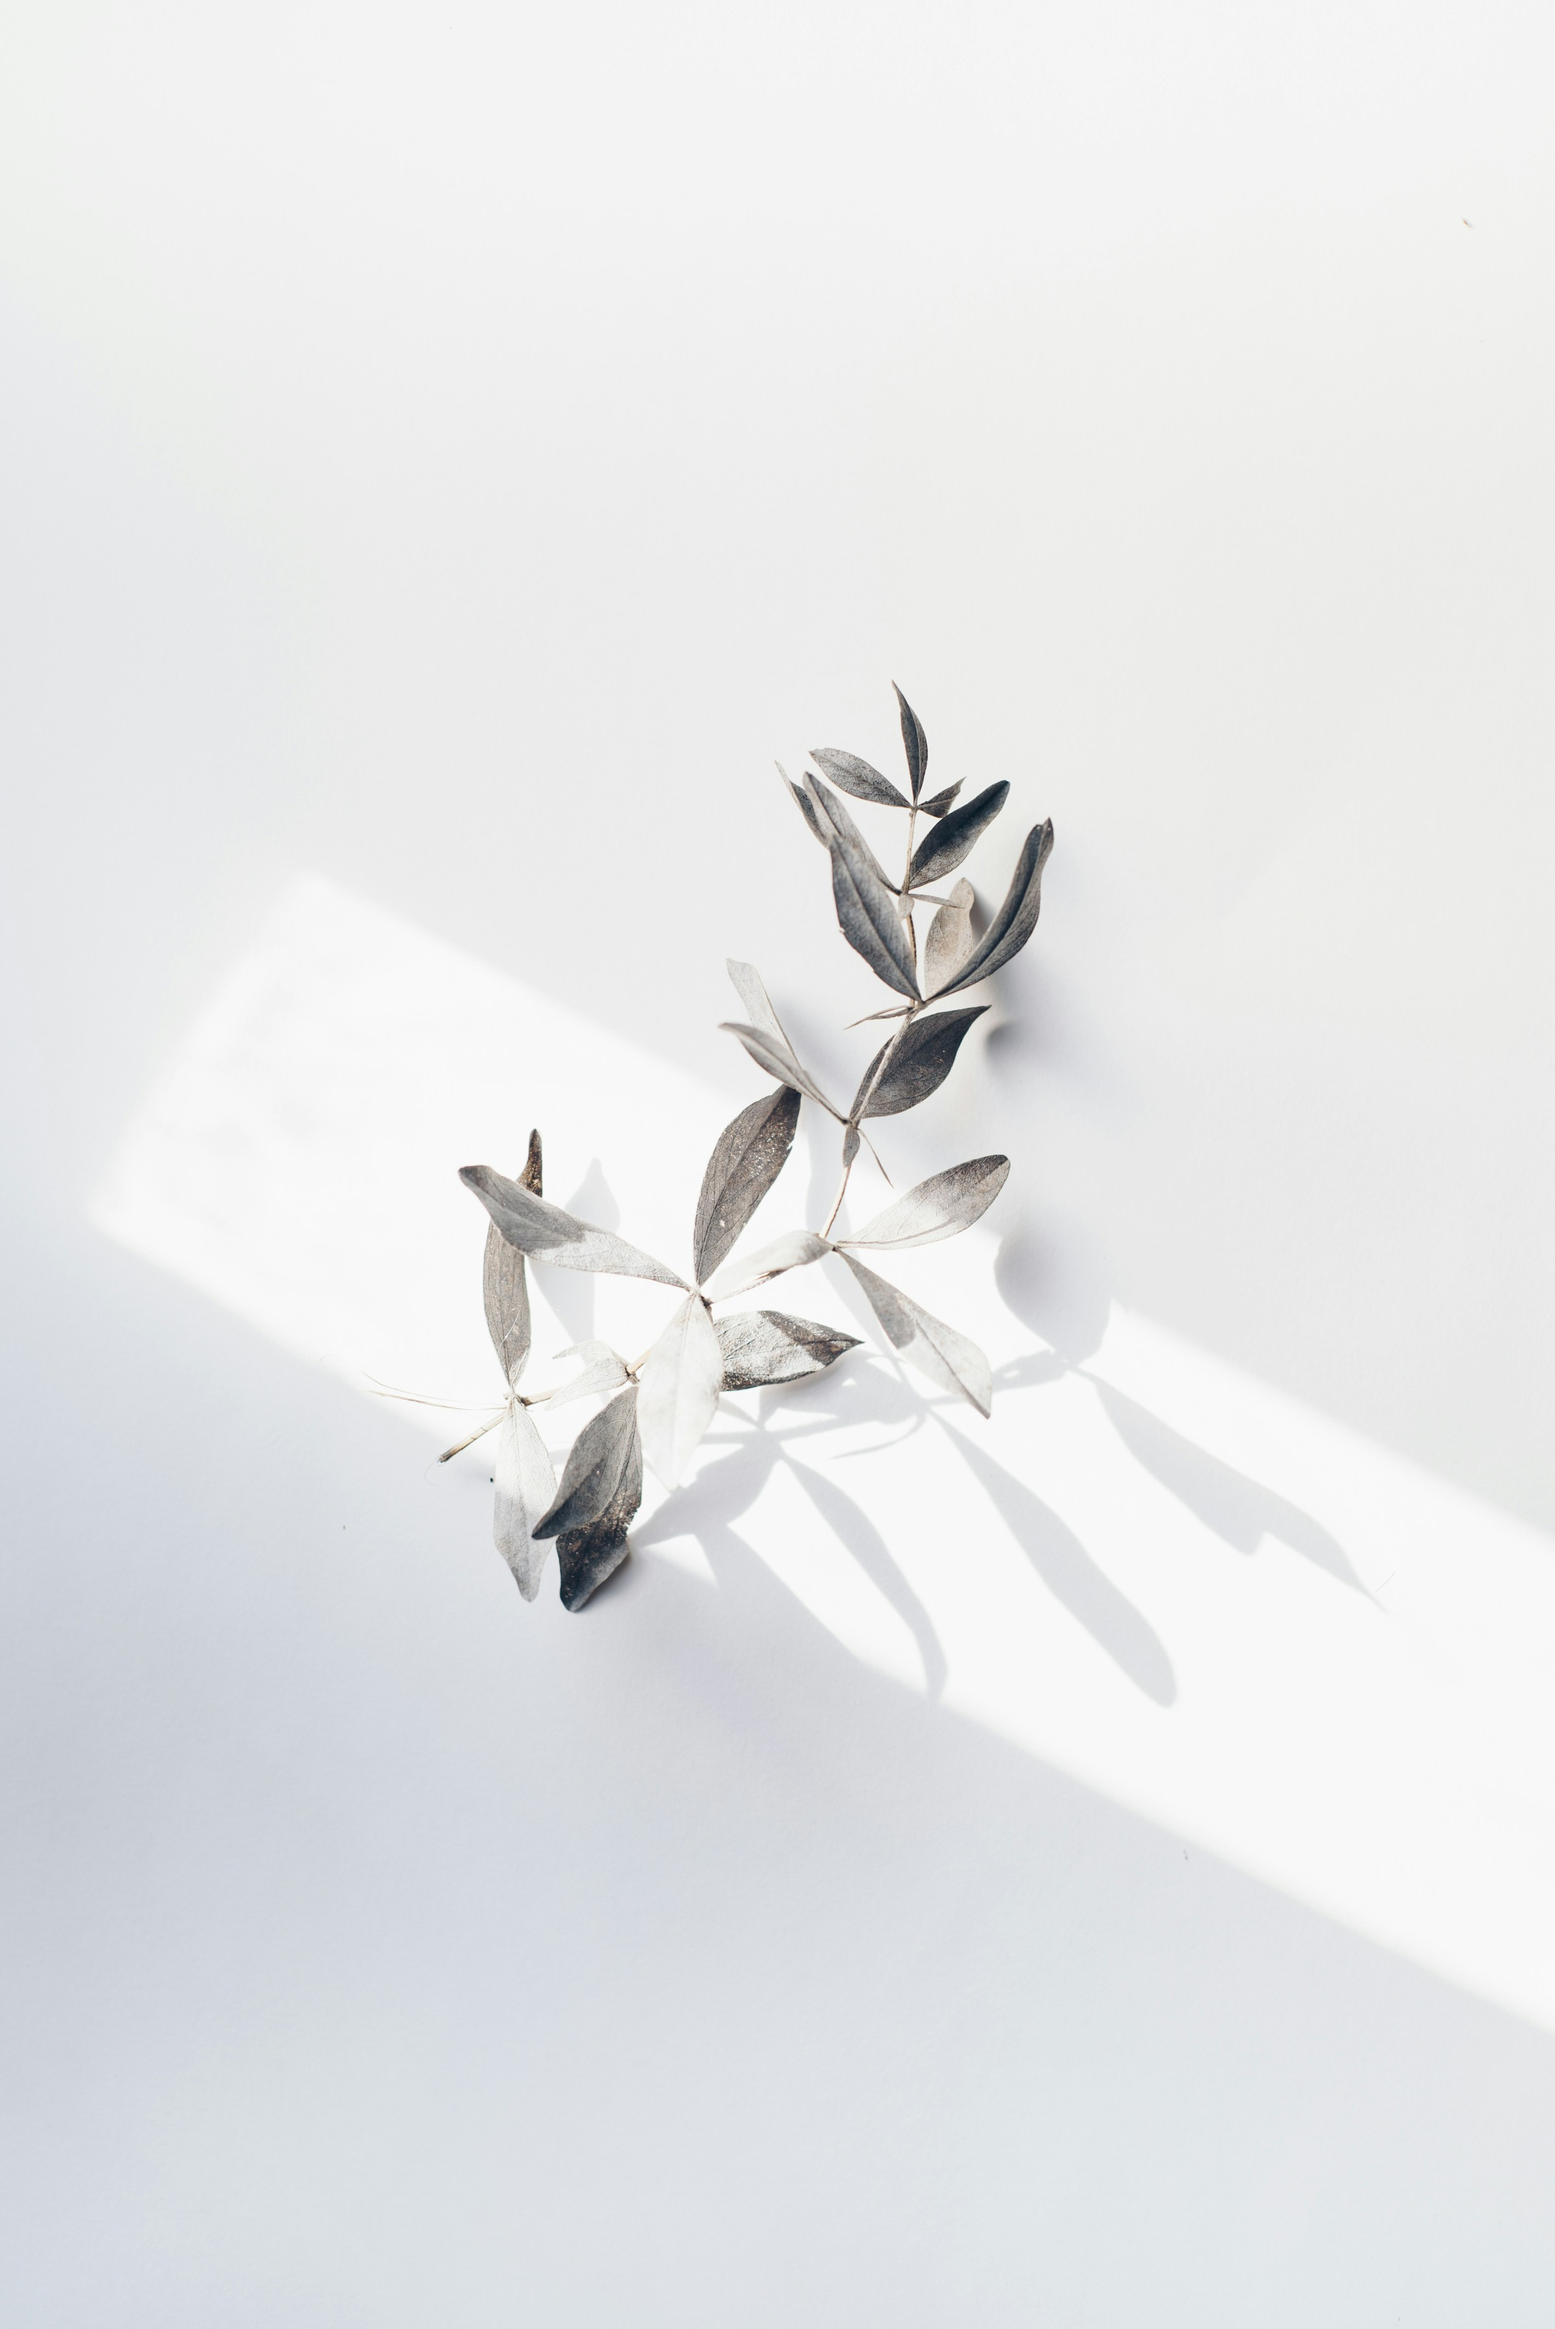
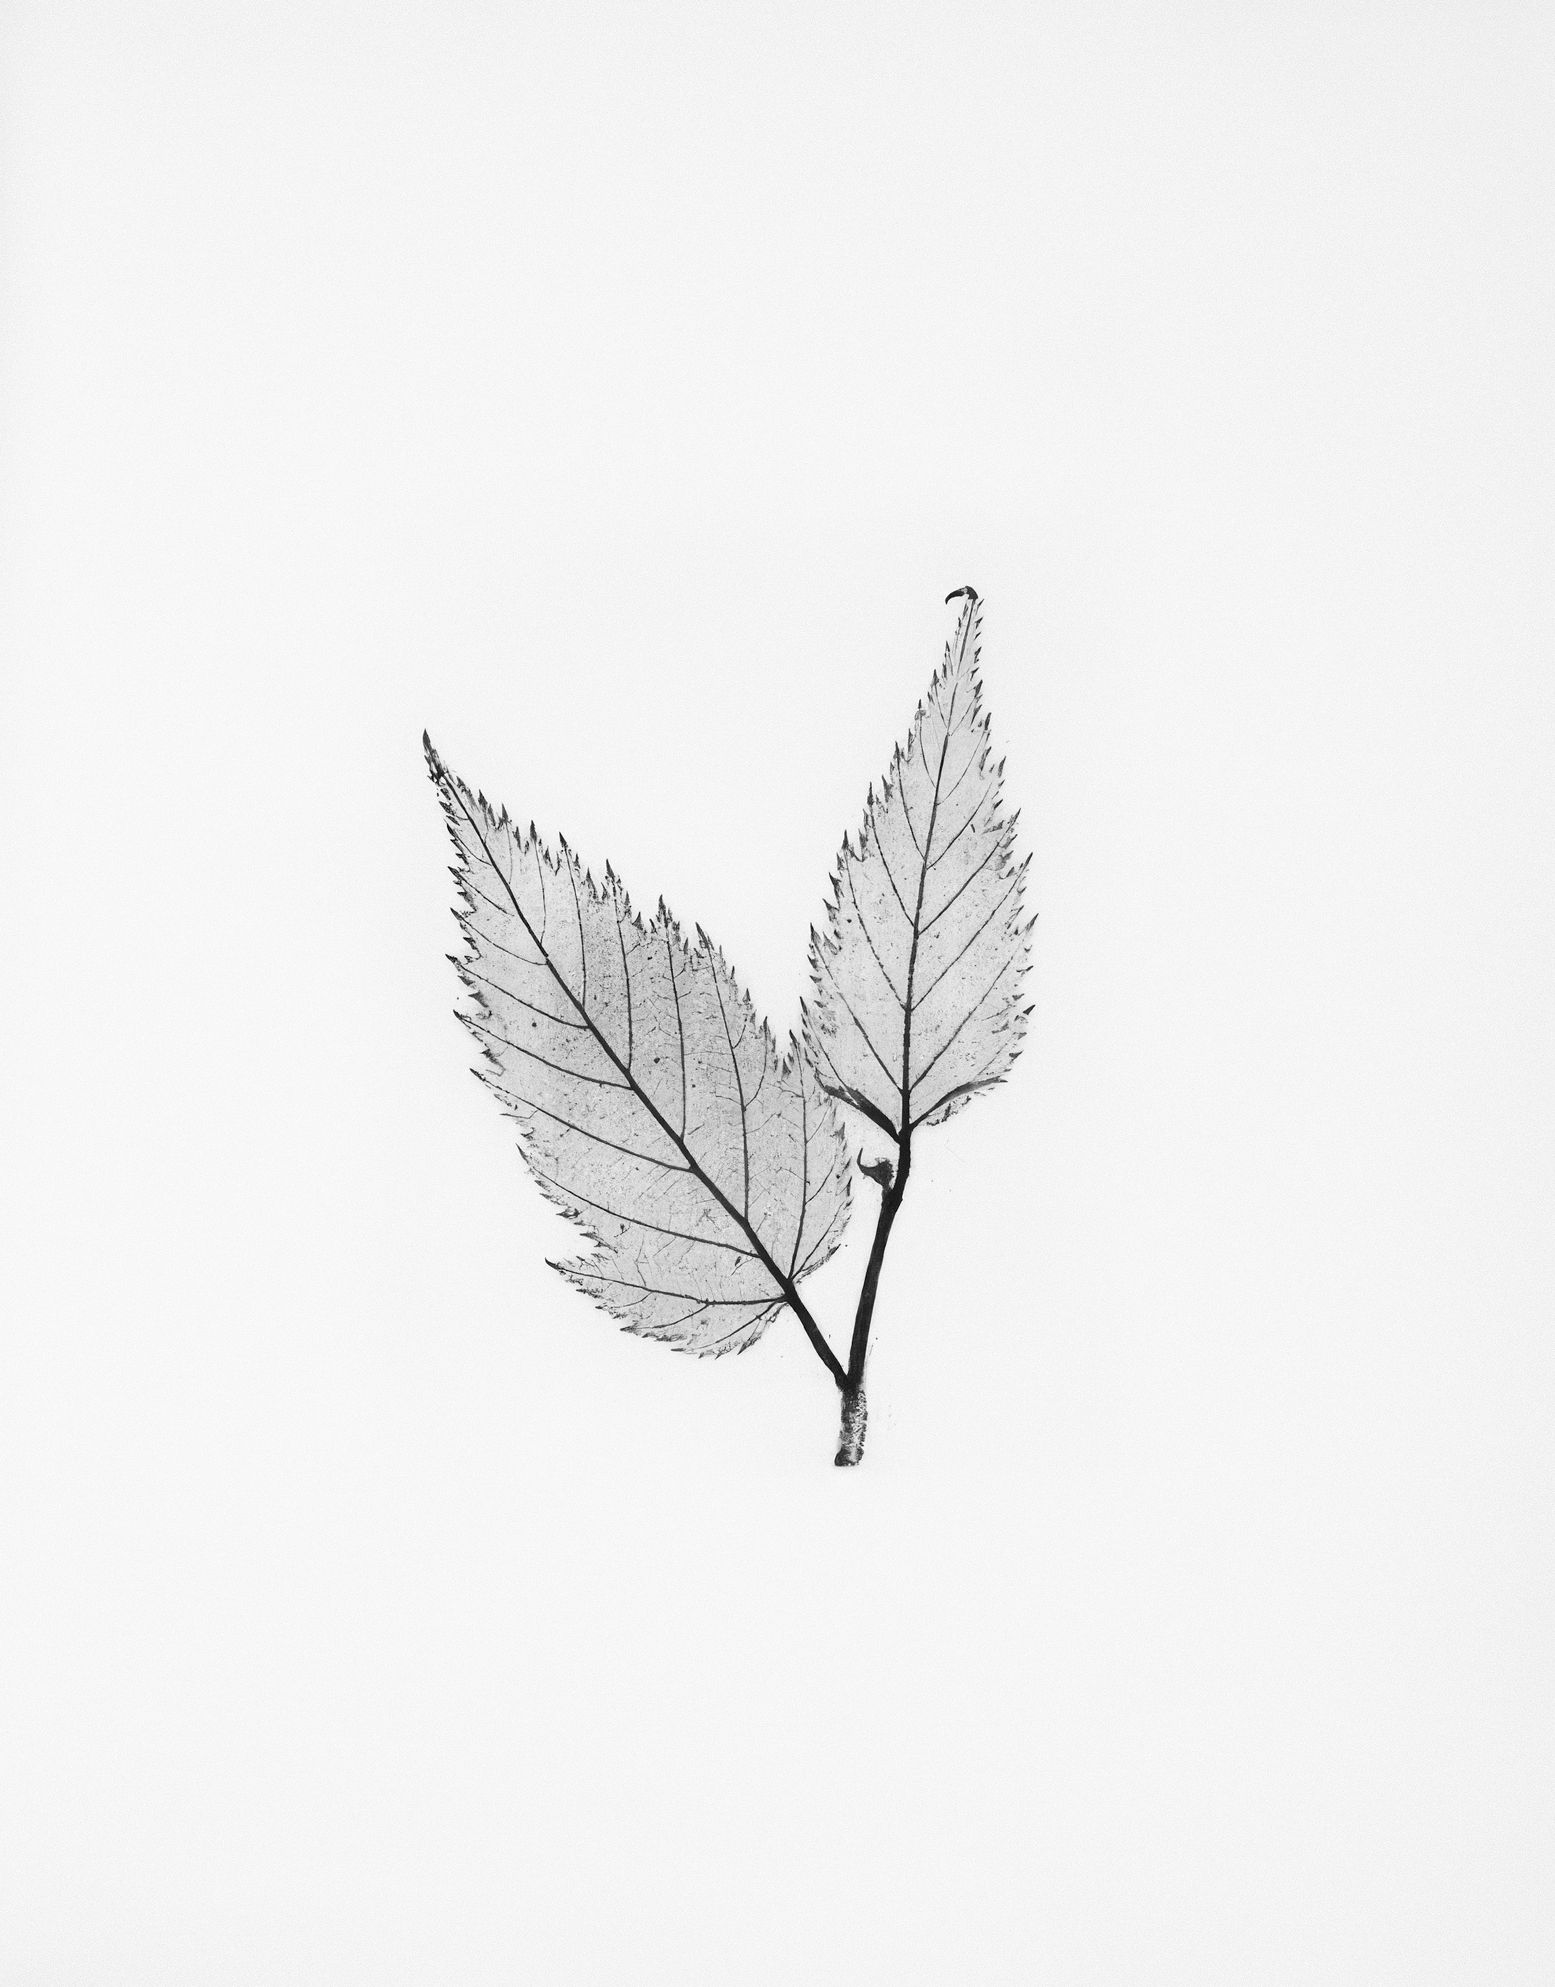
Fix landing photo collapsing on large screens
Right column was using h-full inside a grid-stretched section,
which doesn't always resolve and made the fill image render at
zero height on lg. Switched the section to flex and the inner
container to flex-1 so the cross-axis stretch handles it.

Also swaps in the new hero photo.

Changed region(s): [[0.0, 0.2788, 0.8125, 1.0], [0.6875, 0.6814, 0.7188, 0.7124], [0.6562, 0.6505, 0.6875, 0.6814]]

diff --git a/app/page.tsx b/app/page.tsx
@@ -65,8 +65,8 @@ export default async function HomePage() {
           </section>
 
           {/* Right: editorial photo column */}
-          <section className="rise rise-d2 p-6">
-            <div className="relative h-full min-h-[360px] w-full overflow-hidden rounded-[20px] bg-muted ring-1 ring-border/50">
+          <section className="rise rise-d2 flex p-6">
+            <div className="relative min-h-90 w-full flex-1 overflow-hidden rounded-4xl bg-muted ring-1 ring-border/50">
               <Image
                 src="/hero-img.jpg"
                 alt={t("photoAlt")}
